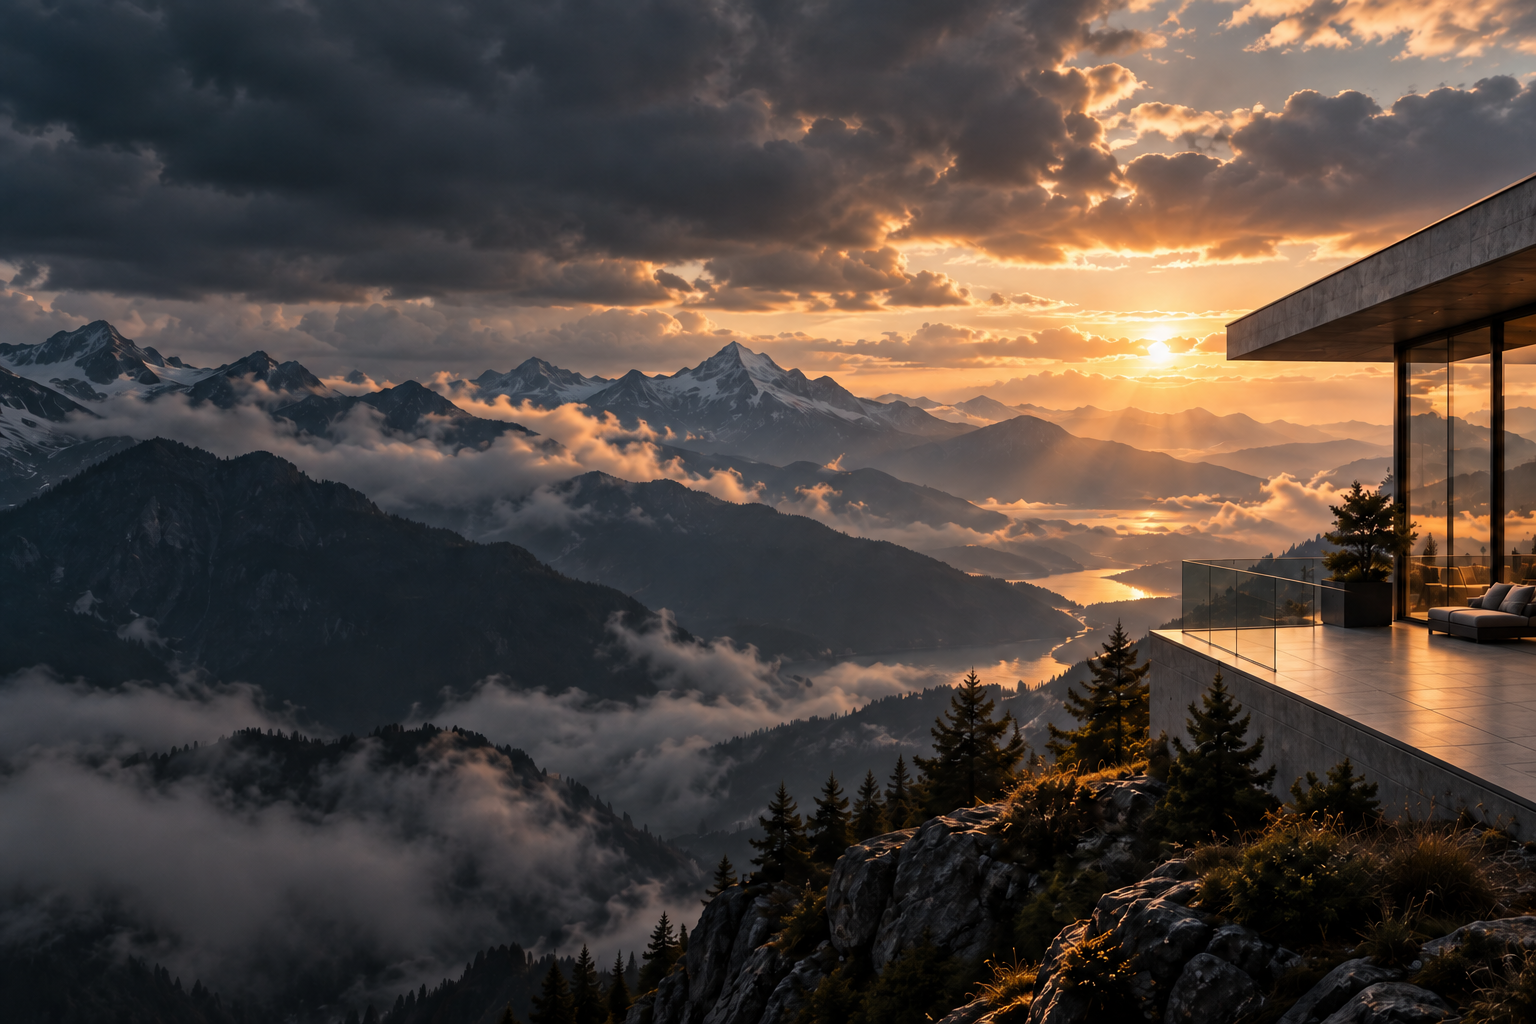
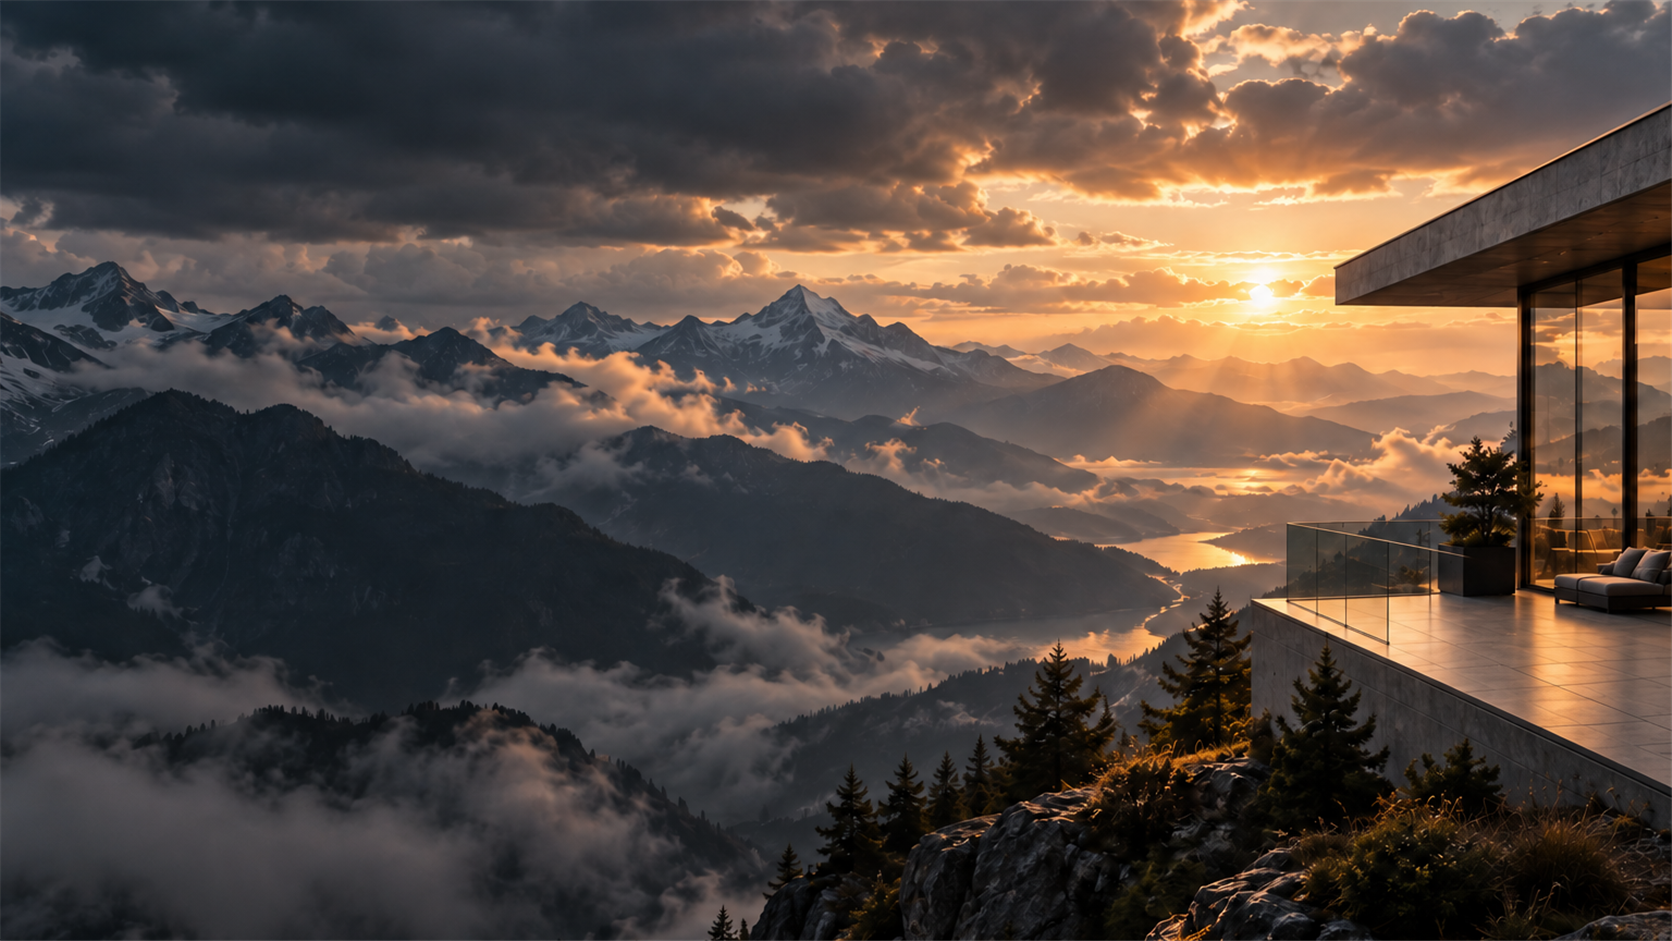
fix: align hero image dimensions

diff --git a/public/assets/css/modules/showcase/showcase.css b/public/assets/css/modules/showcase/showcase.css
@@ -708,7 +708,7 @@
 .showcase-page .showcase-nav-access { color: #f6f1e8 !important; font-size: 8px; }
 .showcase-page .showcase-nav-access { padding: 9px 12px; border: 1px solid rgb(246 241 232 / 70%); border-radius: 2px; background: rgb(246 241 232 / 88%); color: #252723 !important; font-weight: 700; letter-spacing: .1em; }
 .showcase-page .showcase-nav-access:hover { background: #d6b477; }
-.immersive-hero { position: relative; display: flex; height: 100svh; min-height: 100svh; overflow: hidden; border: 0; background: #242a2d url("../../../images/fokus-cloud-hero-immersive.png") center / cover no-repeat; }
+.immersive-hero { position: relative; display: flex; height: 100svh; min-height: 100svh; overflow: hidden; border: 0; background: #242a2d url("../../../images/fokus-cloud-hero-immersive.png?v=20260914-16x9") center / cover no-repeat; }
 .immersive-hero-overlay { position: absolute; inset: 0; background: linear-gradient(90deg, rgb(6 13 18 / 76%) 0%, rgb(10 17 21 / 38%) 44%, rgb(8 13 15 / 5%) 100%), linear-gradient(0deg, rgb(5 9 11 / 70%) 0%, transparent 38%, rgb(8 13 15 / 20%) 100%); }
 .immersive-hero-content { position: relative; z-index: 1; align-self: end; padding: 0 0 48px 36px; }
 .immersive-hero-kicker { display: block; margin-bottom: 12px; color: #d6b477; font-size: 8px; font-weight: 700; letter-spacing: .26em; }
